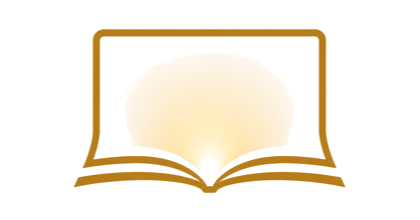
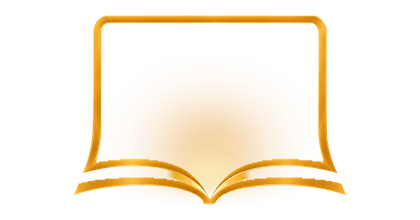
Refresh brand mark references

Changed region(s): [[0.1548, 0.0545, 0.8357, 0.9273], [0.3405, 0.3273, 0.619, 0.5182]]

diff --git a/assets/bible-app.js b/assets/bible-app.js
@@ -1377,7 +1377,7 @@ function loadingScreen() {
     <main class="app-shell focus-shell loading-shell" data-theme="${state.theme}" data-theme-preset="${state.themePreset}" data-scripture-font="${state.scriptureFont}">
       <section class="loading-reader">
         <div class="loading-card">
-          <img class="loading-logo-mark" src="./assets/brand-mark.png" width="420" height="220" alt="" />
+          <img class="loading-logo-mark" src="./assets/brand-mark.png?v=20260713-polished" width="420" height="220" alt="" />
           <h1>Big Screen Bible</h1>
           ${dataError ? "" : '<div class="loading-spinner" aria-hidden="true"></div>'}
           <p>${message}</p>
@@ -1579,7 +1579,7 @@ function topbar() {
   return `
     <header class="topbar">
       <button class="brand" id="brandVerseOfDay" type="button" aria-label="Open verse of the day">
-        <img class="brand-mark-image" src="./assets/brand-mark.png" width="420" height="220" alt="" />
+        <img class="brand-mark-image" src="./assets/brand-mark.png?v=20260713-polished" width="420" height="220" alt="" />
         <span class="brand-divider" aria-hidden="true"></span>
         <div>
           <div class="brand-title">Big Screen</div>
@@ -5322,7 +5322,7 @@ function presentation() {
       </div>
       <div class="presentation-bottom">
         <a class="presentation-brand" id="presentationBrandVerseOfDay" href="#verse-of-the-day" aria-label="Open verse of the day">
-          <img class="presentation-brand-mark" src="./assets/brand-mark.png" alt="" />
+          <img class="presentation-brand-mark" src="./assets/brand-mark.png?v=20260713-polished" alt="" />
           <span class="presentation-brand-copy"><span>Big Screen</span><strong>Bible</strong></span>
         </a>
         <div class="presentation-controls">
@@ -5454,7 +5454,7 @@ function tutorialIntro() {
   return `
     <section class="tutorial-welcome-overlay open" role="dialog" aria-modal="true" aria-labelledby="tutorialWelcomeTitle">
       <div class="tutorial-welcome-card">
-        <img class="tutorial-welcome-logo" src="./assets/brand-mark.png" alt="" />
+        <img class="tutorial-welcome-logo" src="./assets/brand-mark.png?v=20260713-polished" alt="" />
         <div class="shortcut-eyebrow">First visit</div>
         <h2 id="tutorialWelcomeTitle">Want a quick tour?</h2>
         <p>Big Screen Bible has a few lovely corners: reading, study tools, display mode, games, themes, sharing, and highlights. The tour takes about a minute.</p>

diff --git a/index.html b/index.html
@@ -128,7 +128,7 @@
       <main class="app-shell focus-shell loading-shell initial-loading-shell" aria-busy="true" aria-label="Big Screen Bible is loading">
         <section class="loading-reader">
           <div class="loading-card">
-            <img class="loading-logo-mark" src="./assets/brand-mark.png" width="420" height="220" alt="" />
+            <img class="loading-logo-mark" src="./assets/brand-mark.png?v=20260713-polished" width="420" height="220" alt="" />
             <h1>Big Screen Bible</h1>
             <div class="loading-spinner" aria-hidden="true"></div>
             <p>Loading full Bible texts...</p>
@@ -149,6 +149,6 @@
     <script src="./assets/verse-of-day.js?v=20260531-history-smart-search"></script>
     <script src="./assets/trivia.js?v=20260607-trivia-rebalance"></script>
     <script src="./assets/search-query.js?v=20260711-question-aware-search"></script>
-    <script src="./assets/bible-app.js?v=20260713-about-menu"></script>
+    <script src="./assets/bible-app.js?v=20260713-polished-brand-mark"></script>
   </body>
 </html>

diff --git a/about.html b/about.html
@@ -91,7 +91,7 @@
     <main class="about-shell">
       <header class="about-header">
         <a class="about-brand" href="./index.html" aria-label="Open Big Screen Bible">
-          <img class="about-brand-mark" src="./assets/brand-mark.png" alt="" />
+          <img class="about-brand-mark" src="./assets/brand-mark.png?v=20260713-polished" alt="" />
           <span class="about-brand-divider" aria-hidden="true"></span>
           <span class="about-brand-copy">
             <span>Big Screen</span>
